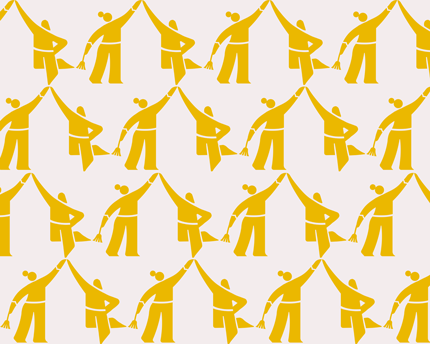
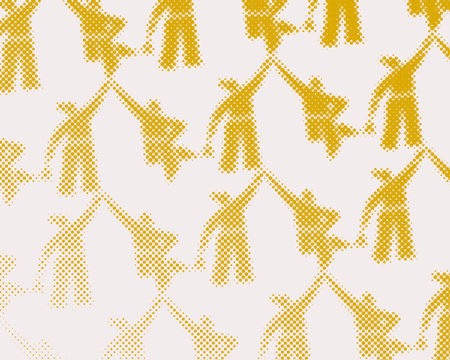
Mejora las imágenes de presentación del portafolio

diff --git a/index.html b/index.html
@@ -238,7 +238,7 @@
 
             <div class="portfolio__card" data-filter="programacion imagen">
                 <img 
-                    src="assets/img/mmejia-0.jpg"
+                    src="assets/img/mmejia-0.png"
                     loading="lazy"
                     alt="Retrato de Carolina Ardila realizado por Miguel Mejía" 
                     width="430" height="344">
@@ -318,7 +318,7 @@
 
             <div class="portfolio__card" data-filter="programacion informacion">
                 <img 
-                    src="assets/img/trabajadorasHogar_CIM-0.jpg"
+                    src="assets/img/trabajadorasHogar_CIM-0.png"
                     loading="lazy"
                     alt="Trabajadoras del Hogar de todas las Américas unidas por el reconocimiento de sus derechos" 
                     width="430" height="344">
@@ -395,7 +395,7 @@
 
             <div class="portfolio__card" data-filter="programacion informacion imagen">
                 <img 
-                    src="assets/img/amzk-0.jpg"
+                    src="assets/img/amzk-0.png"
                     loading="lazy"
                     alt="Iconografía de Amazink studio" 
                     width="430" height="344">
@@ -481,7 +481,7 @@
 
             <div class="portfolio__card" data-filter="programacion">
                 <img 
-                    src="assets/img/mama-0.jpg"
+                    src="assets/img/mama-0.png"
                     loading="lazy"
                     alt="Lumbung en Nuquí y los Mamíferos en Colombia" 
                     width="430" height="344">
@@ -542,9 +542,9 @@
 
             <div class="portfolio__card" data-filter="programacion">
                 <img 
-                    src="assets/img/programacion-0.jpg"
+                    src="assets/img/programacion-0.png"
                     loading="lazy"
-                    alt="Código en Brainfuck que dice 'Hola, estos son algunos de los ejercicios que he realizado en mi proceso de aprendizaje de programación'" 
+                    alt="Estructura base de una función IIFE" 
                     width="430" height="344">
 
                 <h4>Ejercicios de programación </h4>

diff --git a/lib/styles.css b/lib/styles.css
@@ -302,7 +302,7 @@ body {
         padding: 0;
     }
     .menu__elementos > li {
-        margin: 0; 
+        margin: 0.1rem 0; 
     }
 }
 @media (min-width: 1000px) {
@@ -754,6 +754,7 @@ dialog span {
         grid-template-columns: repeat(2, 1fr);
         gap: 1rem;
         padding: 0 1rem;
+        margin: 0 0 2rem;
     }
     .portfolio__card {
         grid-template-columns: repeat(3,1fr);
@@ -800,6 +801,7 @@ dialog span {
         grid-template-columns: repeat(3, minmax(1rem, 568px));
         justify-content: center;
         gap: 3rem;
+        margin: 0 0 5rem;
     }
     .portfolio__card {
         grid-template-columns: repeat(4, 1fr);
